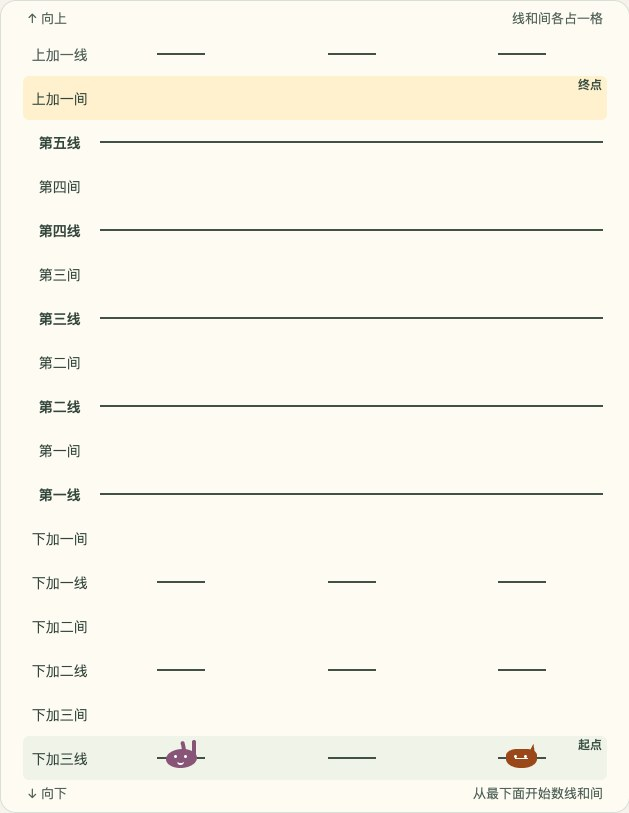
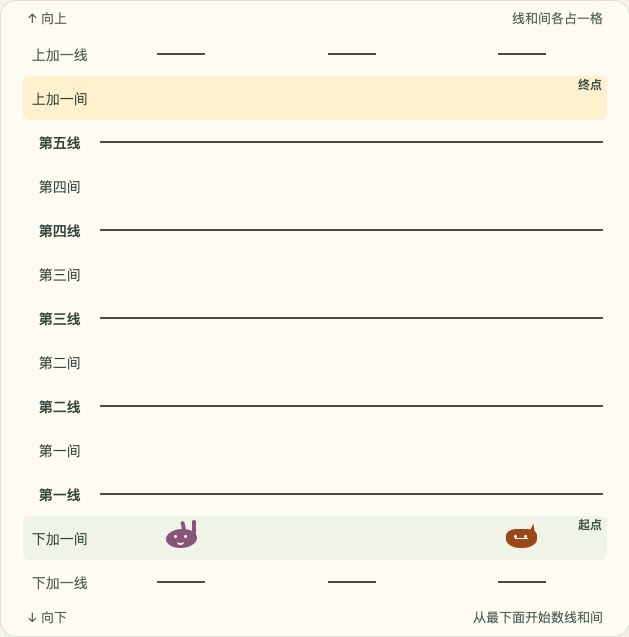
缩短五线谱竞走棋盘

diff --git a/staff-race.html b/staff-race.html
@@ -43,14 +43,14 @@
         </section>
         <section class="board" aria-label="五线谱棋盘">
           <div class="board-heading"><span>↑ 向上</span><span>线和间各占一格</span></div>
-          <div id="staff" role="group" aria-label="从上加一间到下加三线的棋盘"><div class="row upper-ledger" aria-hidden="true"><span class="cell-name">上加一线</span><span class="ledger-left"></span><span class="ledger-right"></span></div></div>
+          <div id="staff" role="group" aria-label="从下加一间到上加一间的棋盘"><div class="row ledger-guide" aria-hidden="true"><span class="cell-name">上加一线</span><span class="ledger-left"></span><span class="ledger-right"></span></div><div id="lower-ledger" class="row ledger-guide" aria-hidden="true"><span class="cell-name">下加一线</span><span class="ledger-left"></span><span class="ledger-right"></span></div></div>
           <div class="board-heading"><span>↓ 向下</span><span>从最下面开始数线和间</span></div>
         </section>
       </div>
       <details>
         <summary>怎么玩？</summary>
         <ol>
-          <li>两人各选一个角色，从下加三线出发，向上加一间进发。</li>
+          <li>两人各选一个角色，从下加一间出发，向上加一间进发。</li>
           <li>骰子会告诉你向上还是向下，以及要走几步。每次点相邻的一格。比如从第二线向上走两步，先点第二间，再点第三线。</li>
           <li>骰子只会掷出棋盘上走得完的方向和步数。走完再换人。</li>
           <li>先到上加一间的人立即获胜。每轮两人各走一次，十轮结束时，站得更高的人赢。同一高度就打平。</li>

diff --git a/staff_race.css b/staff_race.css
@@ -278,9 +278,8 @@ details li + li { margin-top: 6px; }
 .frog { --team: #226c53; --tint: #e6f4e9; }
 .robot { --team: #205e97; --tint: #e6f1fb; }
 
-.ledger-left, .ledger-right { display: none; }
 
-.ledger::before, .upper-ledger::before, .ledger .ledger-left, .ledger .ledger-right, .upper-ledger .ledger-left, .upper-ledger .ledger-right {
+.ledger-guide::before, .ledger-guide .ledger-left, .ledger-guide .ledger-right {
   content: "";
   display: block;
   width: min(48px, 90%);
@@ -288,10 +287,10 @@ details li + li { margin-top: 6px; }
   border-top: 2px solid #425148;
   pointer-events: none;
 }
-.ledger::before, .upper-ledger::before { grid-column: 3; }
-.ledger .ledger-left, .upper-ledger .ledger-left { grid-column: 2; }
-.ledger .ledger-right, .upper-ledger .ledger-right { grid-column: 4; }
-.upper-ledger .cell-name { color: #52645a; }
+.ledger-guide::before { grid-column: 3; }
+.ledger-guide .ledger-left { grid-column: 2; }
+.ledger-guide .ledger-right { grid-column: 4; }
+.ledger-guide .cell-name { color: #52645a; }
 .endpoint { background: #f0f3e7; }
 .finish { background: #fff1ce; }
 .endpoint-label {

diff --git a/AGENTS.md b/AGENTS.md
@@ -187,9 +187,9 @@ P-005 is a user-requested exception to the shared third/sixth-error contract. Co
 
 `staff-race.html`, `staff_race.css`, and `src/staff_race*.mjs` own this same-device
 game. Players select distinct characters with different colors and silhouettes.
-Both pieces start on the third lower ledger line. The finish is the first space
+Both pieces start in the first space below the staff. The finish is the first space
 above the staff, halfway between line 5 and the first upper ledger line. The upper
-ledger line is a visual guide. Keep the complete row grid equally spaced, center
+and lower ledger lines are visual guides. Keep the row grid equally spaced, center
 each notehead vertically on its row, and keep character decoration within the
 neighboring line bounds. Every adjacent line or space is one step. Roll a legal
 direction and one to four steps, requiring one deliberate placement per step.

diff --git a/docs/progress_tracker.md b/docs/progress_tracker.md
@@ -2,6 +2,16 @@
 
 Last updated: 2026-11-26
 
+## Staff Race shorter course, November 26, 2026
+
+Moved the start to the first space below the staff. The board has 11 playable
+positions and one visual ledger line at each end, with the start centered
+between line 1 and the first lower ledger line. The finish and ten-round rule
+carry forward. Updated the Studio guide, public overview, and catalog preview.
+Reviewed the development, games, and workspace guides.
+Build `47634471e847` passed 41 unit tests, the complete race and catalog checks,
+and 120 Chrome responsive cases. The updated board preview was visually checked.
+
 ## Staff Race course and characters, November 26, 2026
 
 Revised the match course from the third lower ledger line to the first space

diff --git a/README.md b/README.md
@@ -22,7 +22,7 @@ Depending on the activity, learners can use spoken instructions, retry with hint
 replay generated questions, or print a practice sheet.
 Staff Race lets a learner and a teacher or parent take turns moving note pieces
 through adjacent lines and spaces on one shared staff. Players choose a character
-and race from the third lower ledger line to the first space above the staff.
+and race from the first space below the staff to the first space above it.
 
 ## Open from the iPhone or iPad Home Screen
 
